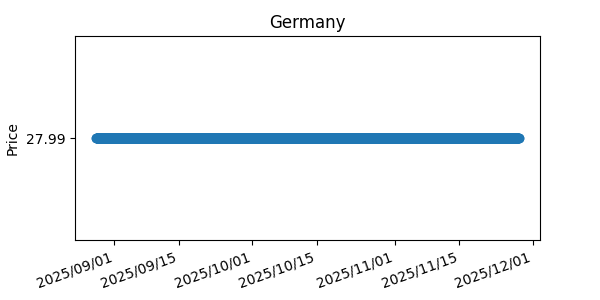
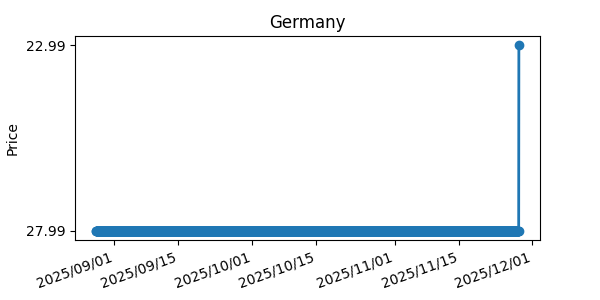
Auto commit from deploy script

diff --git a/README.md b/README.md
@@ -6,7 +6,7 @@ Here is all the data we collect:
 | ------- | ------- | ------- | ------- |  
 | An error occurred checking for Netherlands | _ | _ |  
 | An error occurred checking for Czechia | _ | _ |  
-Germany:|            € 27.99     |(€ 27.99)| ![Graph](graphs/graphGermany.png) |  
+Germany:|            € 22.99     |(€ 22.99)| ![Graph](graphs/graphGermany.png) |  
 | An error occurred checking for Belgium | _ | _ |  
 | An error occurred checking for France | _ | _ |  
 | An error occurred checking for Spain | _ | _ |  
